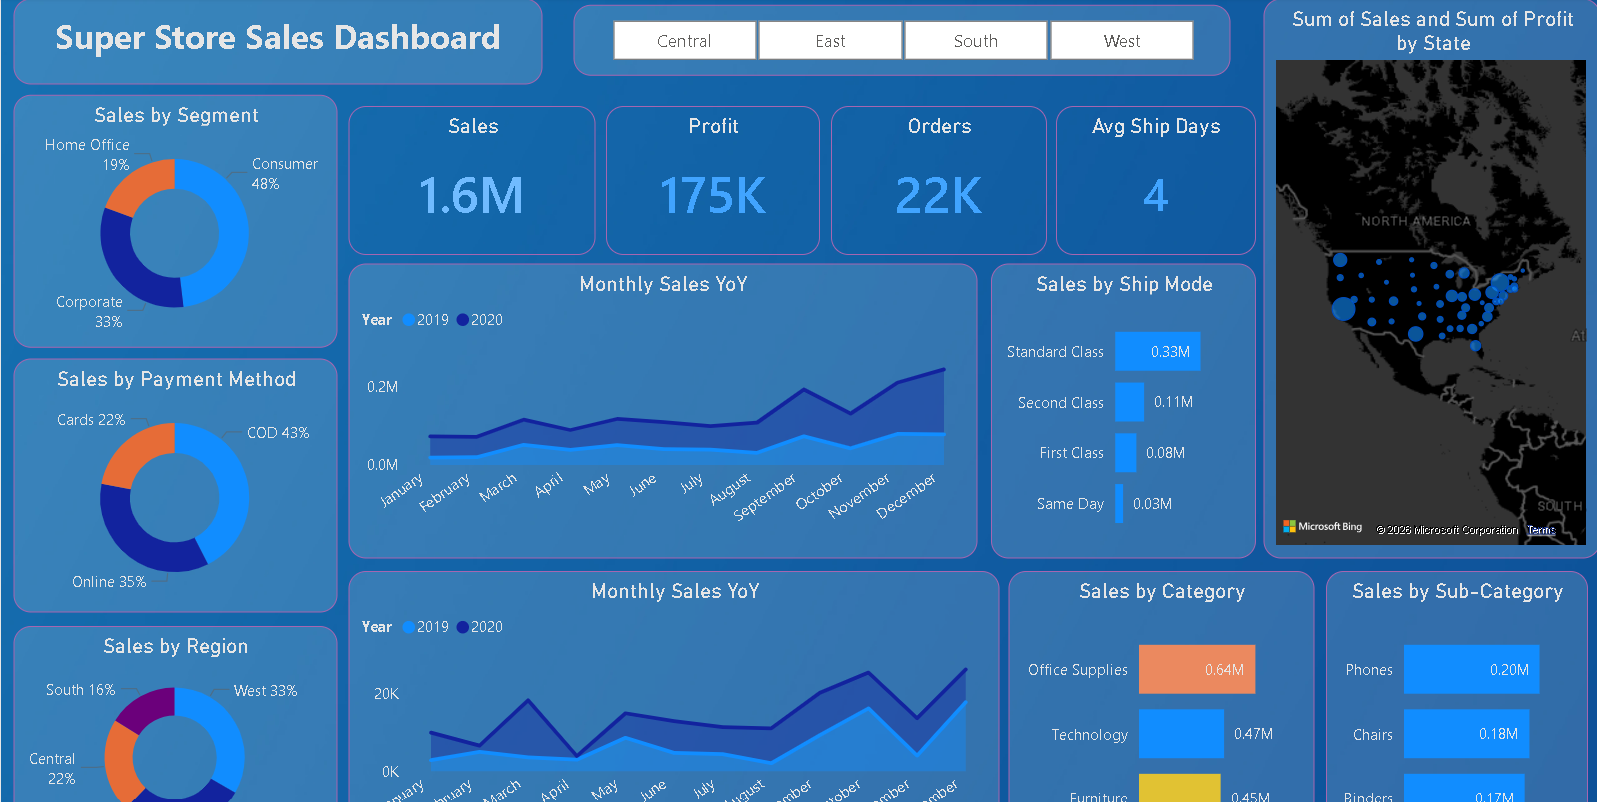
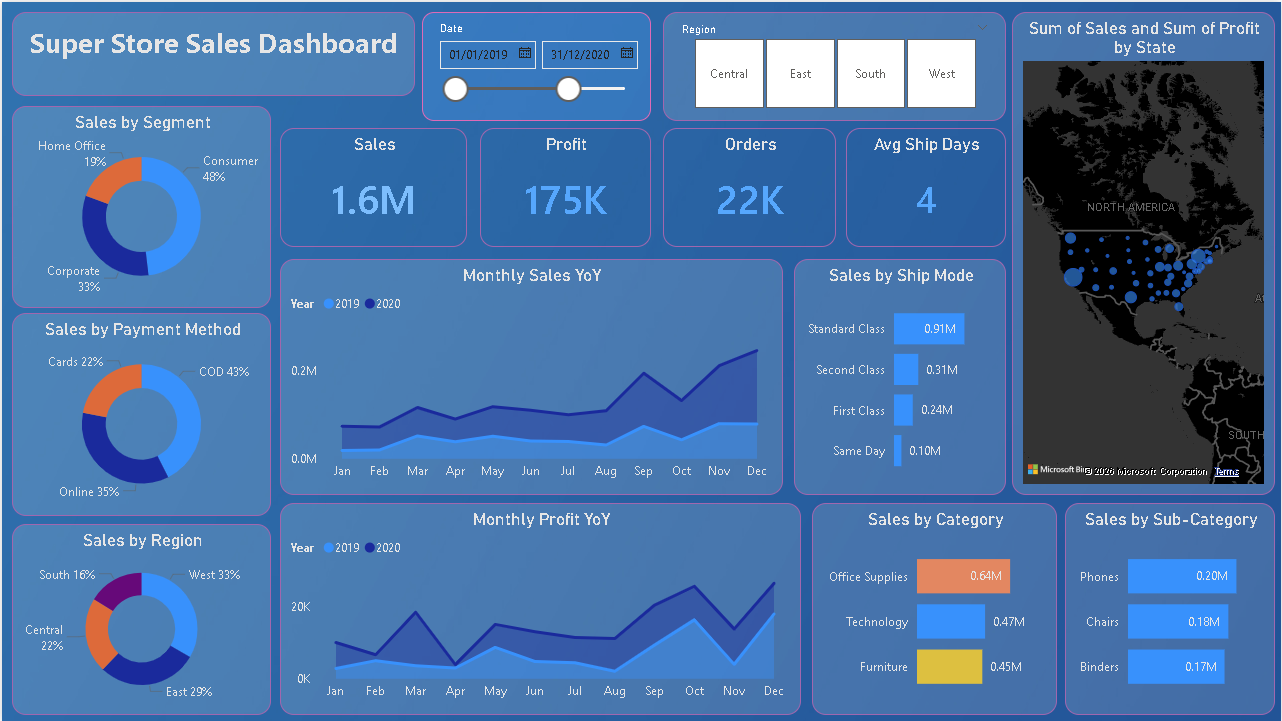
Create data model with date, product and customers table

diff --git a/README.md b/README.md
@@ -16,18 +16,22 @@ Deliver a clear, interactive view of sales performance to support data-driven de
 - Interactive filtering for dynamic exploration  
 
 ## 🔷 Key Insights
-- Revenue is highly concentrated among a small set of products  
-- Certain regions consistently outperform others  
-- Sales trends indicate clear seasonal patterns  
-- Underperforming categories present optimization opportunities  
+- Profit margins are low, regardless of high revenue
+- Standard shipping method seems to be the most dominant choice 
+- Most of our profit comes from the East and West Region
+- Sales trends indicate clear seasonal patterns, with peak sales coming in at the end of the year.
+- Technology and Office Supplies yield the highest profit with Copiers doubling the next closest category Accessories and Phones.
 
 ## 🔷 Dashboard Preview
 ![Dashboard](images/dashboard.png)
 
+## 🔷 Data Model
+![Data Model](images/data%20model.png)
+
 ## 🔷 Repository Structure
 - `/data` → Raw dataset  
 - `/dashboard` → Power BI file (.pbix)  
-- `/images` → Dashboard screenshots  
+- `/images` → Dashboard and data model screenshots  
 
 ## 🔷 Outcome
 This project demonstrates the ability to transform raw data into actionable business intelligence and deliver insights through an interactive dashboard.